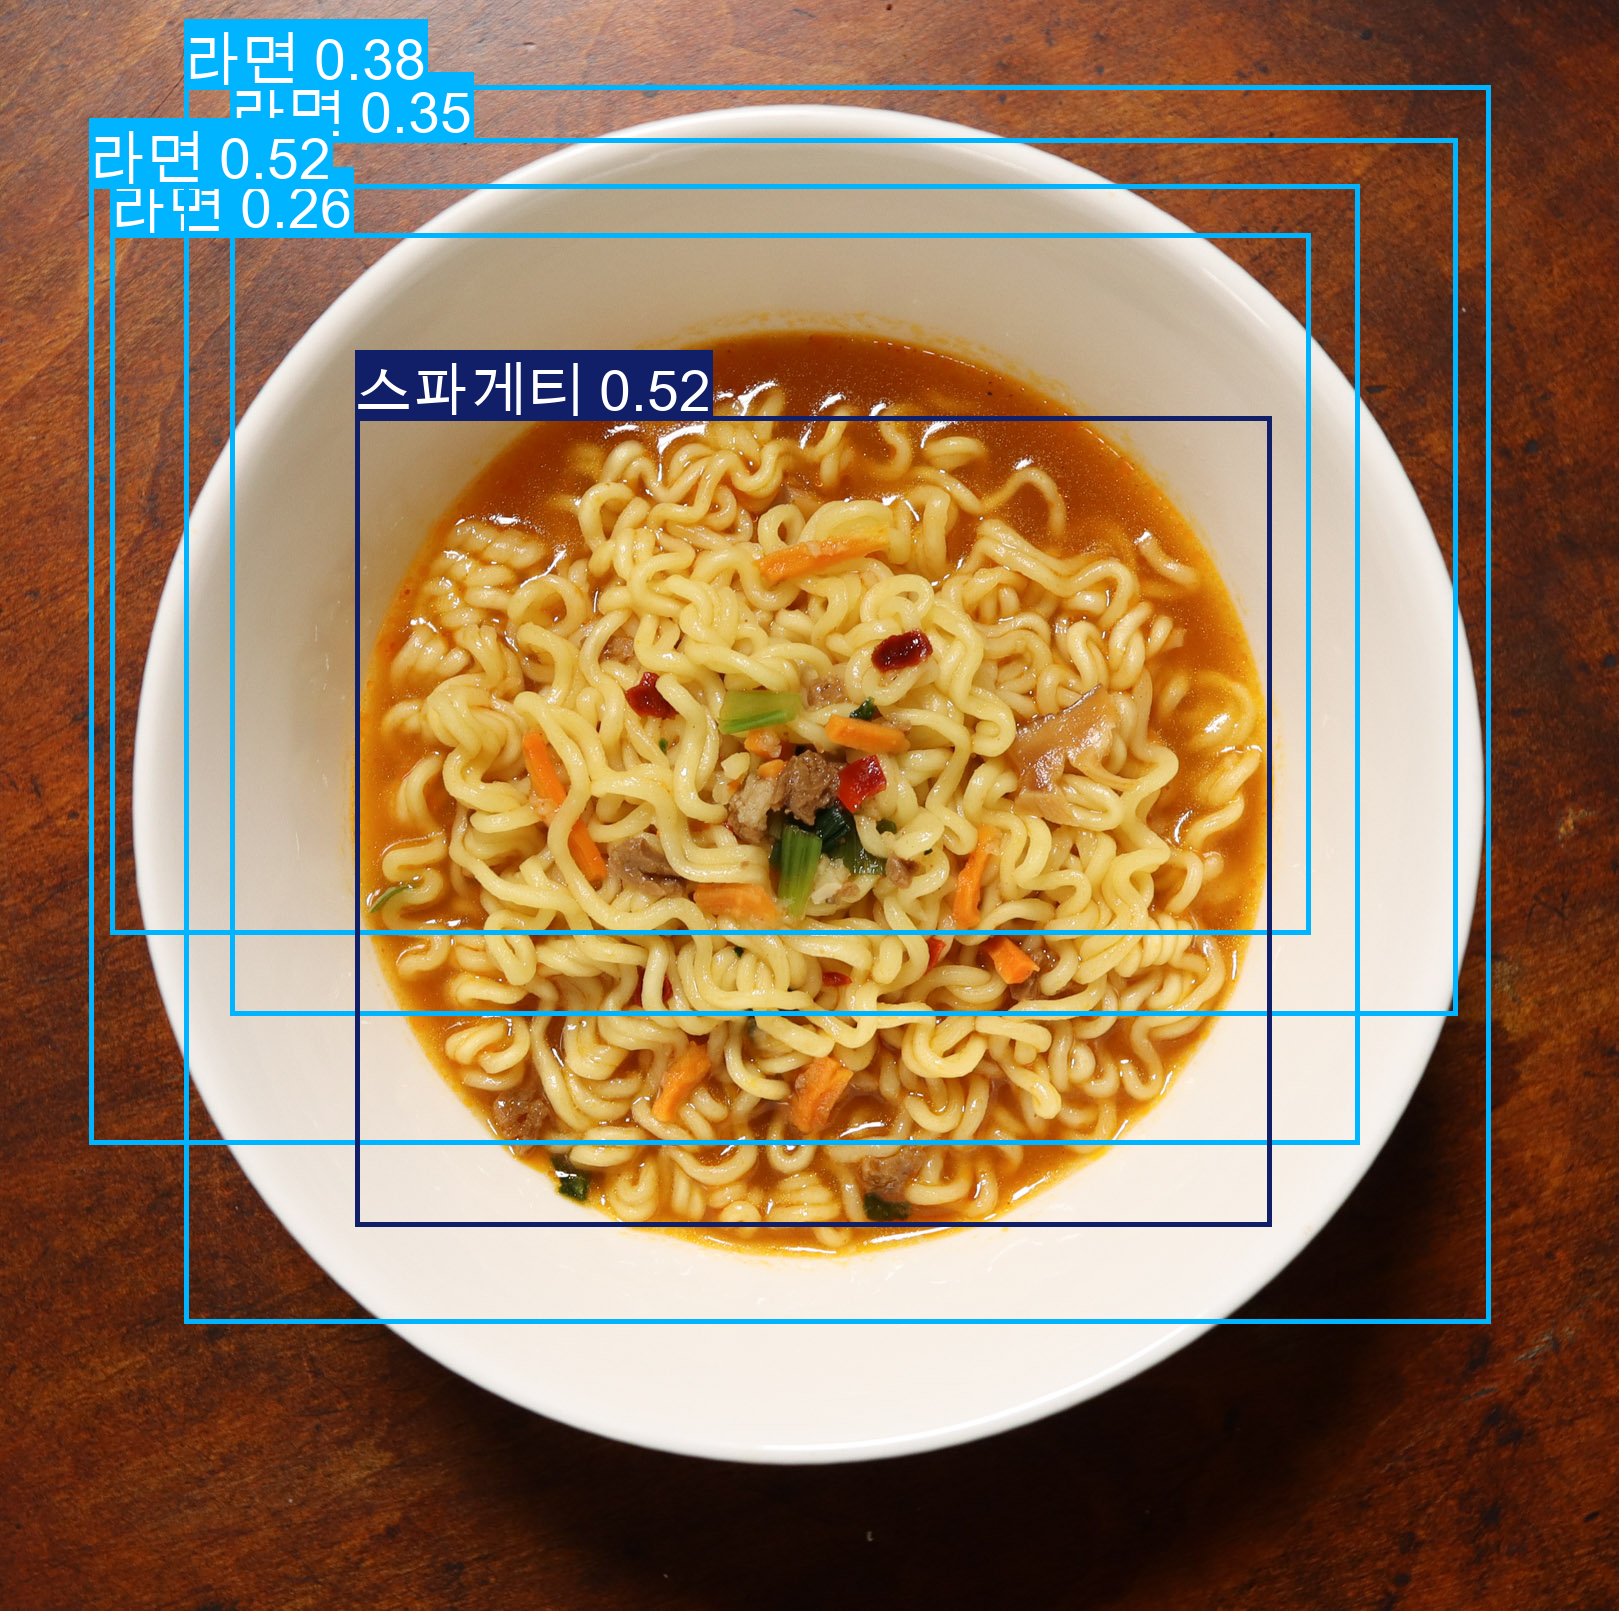
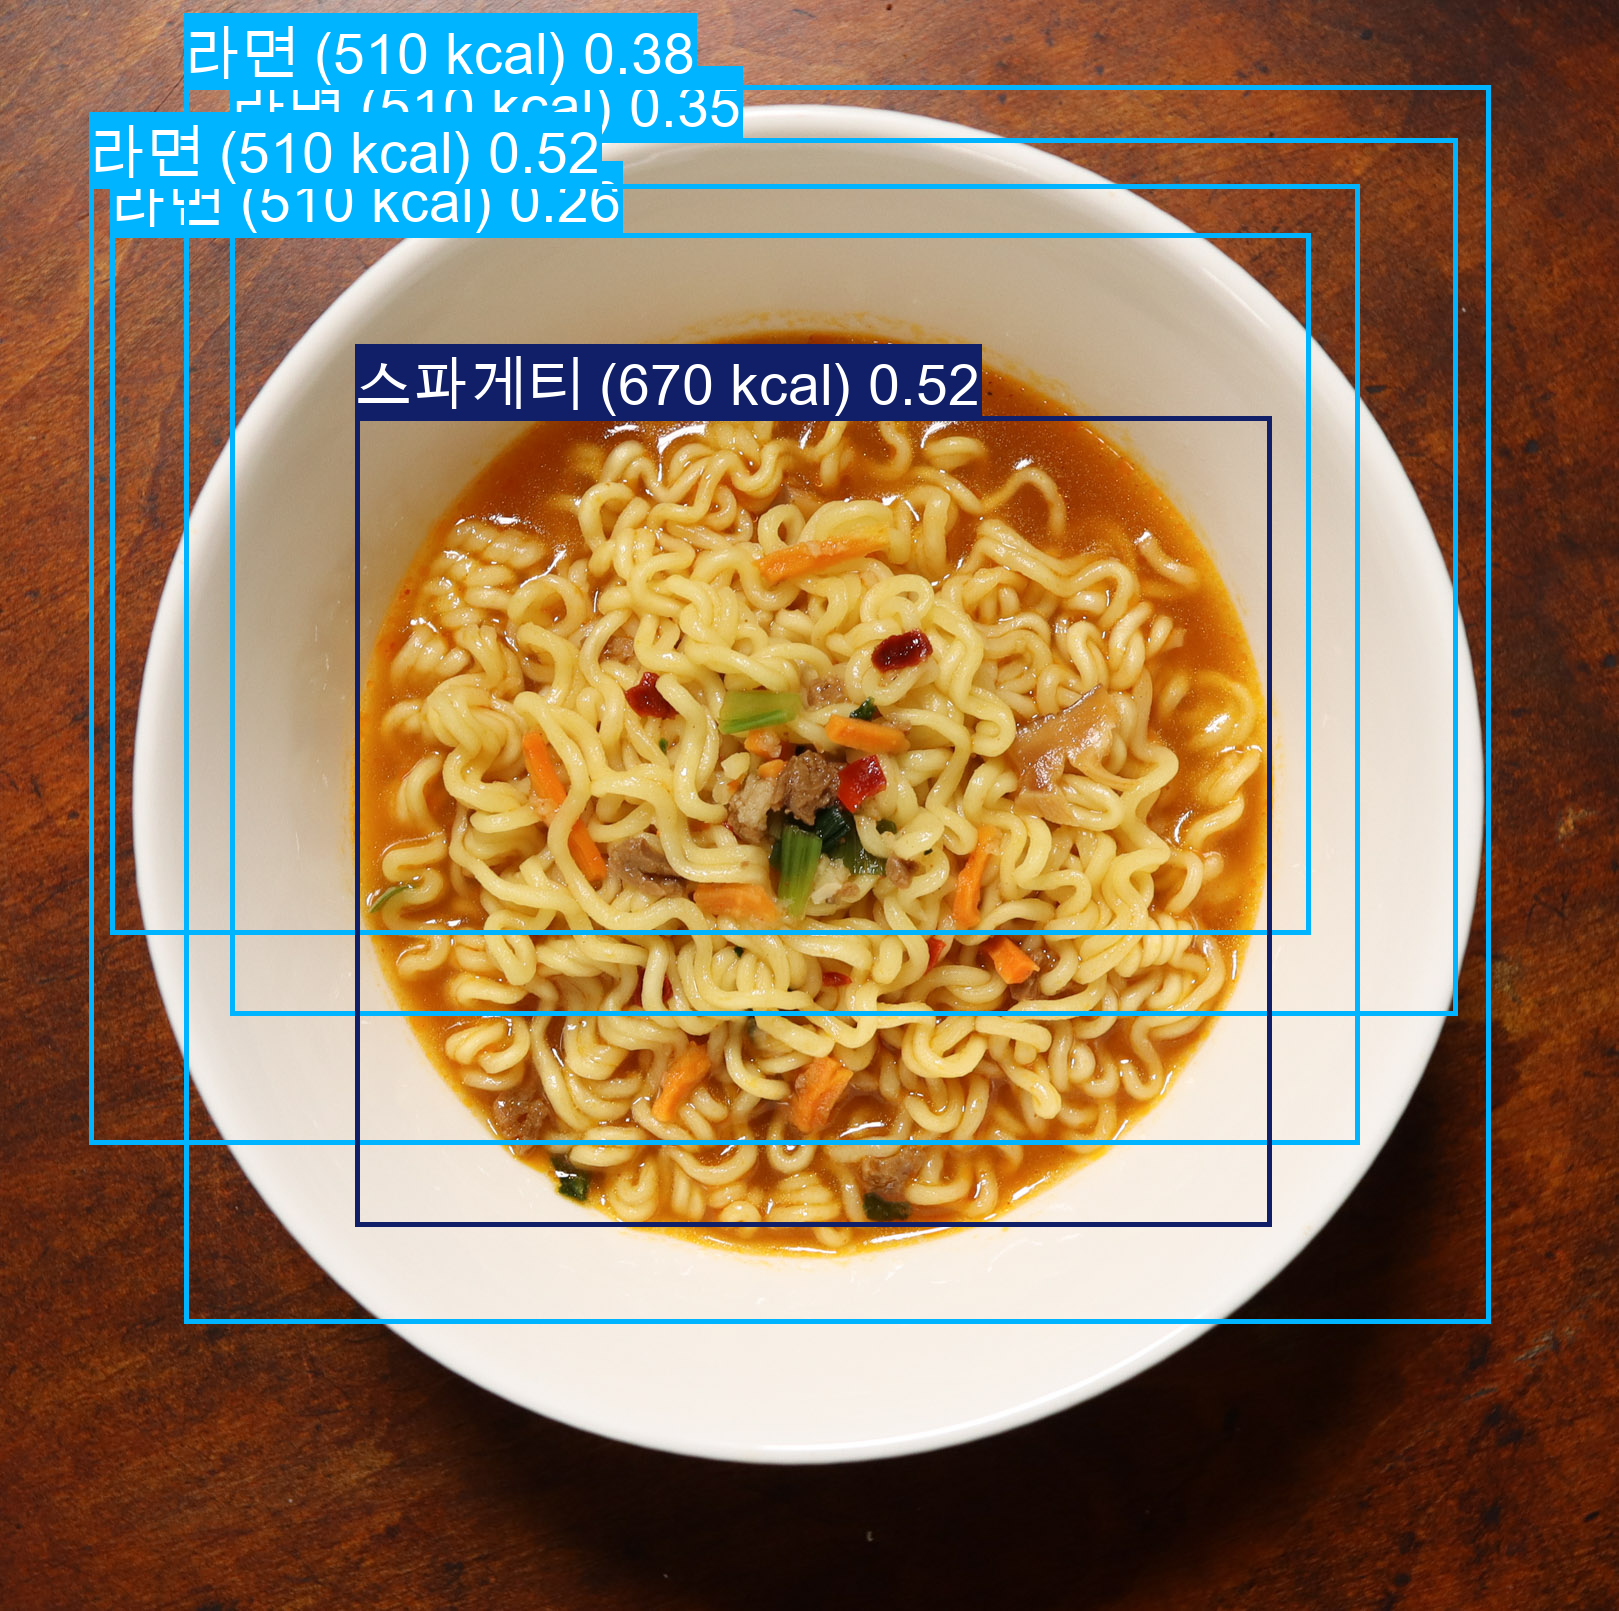
calorie DB update

Changed region(s): [[0.0618, 0.0, 0.4632, 0.1552], [0.2162, 0.1862, 0.6177, 0.2793]]

diff --git a/test.py b/test.py
@@ -2,6 +2,29 @@
 import cv2
 from ultralytics import YOLO
 
+calories = {
+    # 국물류 - 국물 절반 정도 섭취 가정
+    "라면": 510,        # 면+건더기+국물 일부
+    "짬뽕": 700,        # 면+해물/야채+국물 일부
+    "김치찌개": 330,     # 건더기+국물 일부 (기름 일부 섭취)
+    "된장찌개": 265,     # 건더기+국물 일부
+
+    # 비국물류 - 소스 포함
+    "탕수육": 540,       # 튀김 480 + 소스 약 60
+    "제육볶음": 600,     # 양념이 본체에 포함
+    "햄버거": 590,       # 패티번 550 + 케첩/마요 약 40
+    "피자": 700,         # 660 + 디핑소스 약 40
+    "스파게티": 670,     # 소스가 본체에 포함
+    "비빔밥": 590,       # 560 + 고추장 약 30
+    "삼겹살": 560,       # 고기 500 + 쌈장/기름장 약 60
+
+    # 단독 기준
+    "달걀 프라이": 90,    # 소금·후추는 사실상 0kcal
+    "소시지": 250,
+    "짜장": 700,         # 춘장 소스가 본체에 포함
+    "밥": 300,
+}
+
 # ==============================
 # 1. 경로 설정
 # ==============================
@@ -54,8 +77,25 @@ for image_name in image_files:
 
     results = model(image)
 
+    # 검출된 음식의 클래스명과 칼로리를 출력하고 bbox 라벨에도 표시
+    result = results[0]
+    calorie_labels = {}
+
+    for class_id in result.boxes.cls.int().tolist():
+        class_name = result.names[class_id]
+        calorie = calories.get(class_name)
+        calorie_text = f"{calorie} kcal" if calorie is not None else "칼로리 정보 없음"
+
+        calorie_labels[class_id] = f"{class_name} ({calorie_text})"
+        print(f"{image_name} - {class_name}: {calorie_text}")
+
+    result.names = {
+        class_id: calorie_labels.get(class_id, class_name)
+        for class_id, class_name in result.names.copy().items()
+    }
+
     # bbox 그려진 결과 이미지
-    annotated_image = results[0].plot()
+    annotated_image = result.plot()
 
     # ==============================
     # 결과 저장